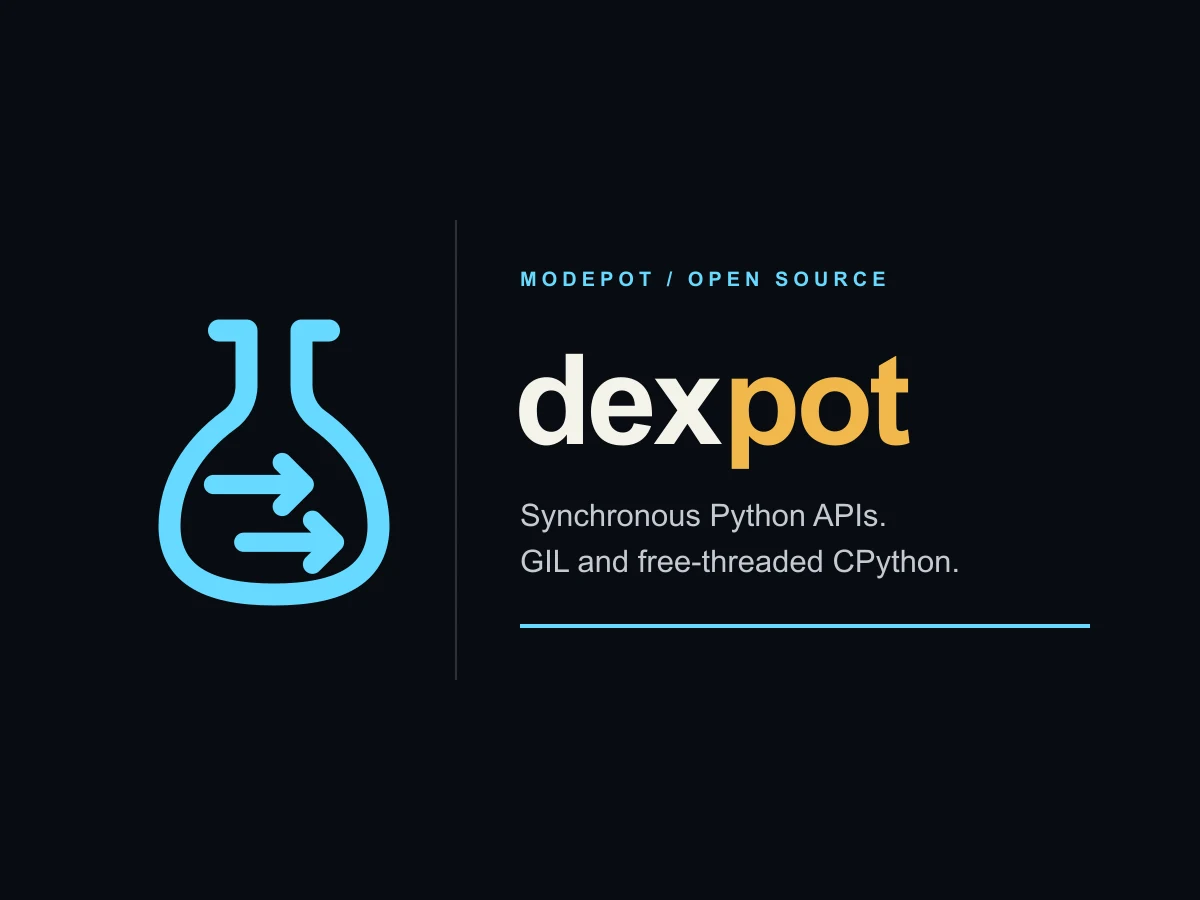
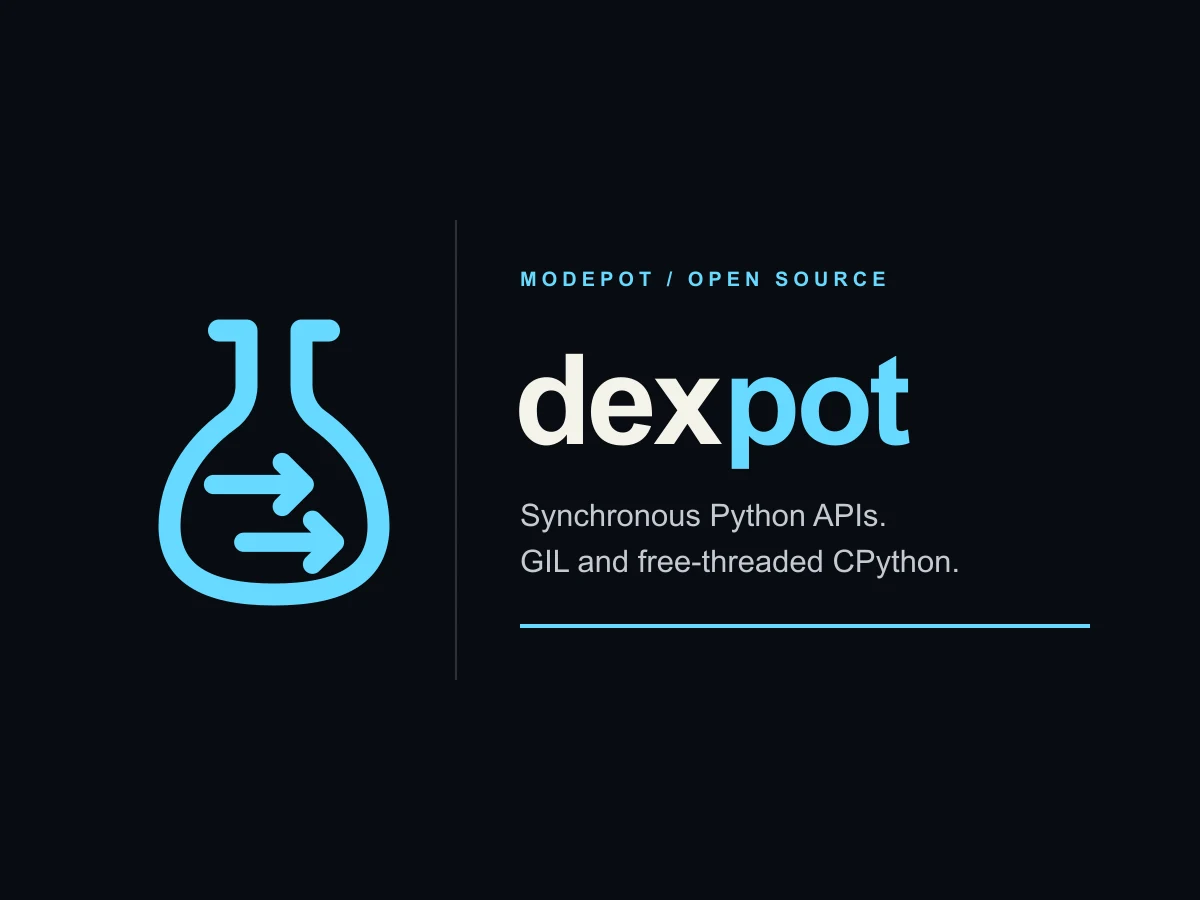
fix: match Dexpot wordmark suffix to flask cyan

Changed region(s): [[0.5858, 0.4044, 0.7708, 0.5289]]

diff --git a/website/src/styles/custom.css b/website/src/styles/custom.css
@@ -10,6 +10,7 @@
   --mp-border-light: #c6cbd2; --mp-border-dark: #555d68;
   --mp-control-light: #616b78; --mp-control-dark: #aeb4bc;
   --mp-accent-light: #14665f; --mp-accent-dark: #73cfc0;
+  --dexpot-wordmark-light: #006b8f; --dexpot-wordmark-dark: #66d9ff;
   --mp-error-light: #a4262b; --mp-error-dark: #ff9b9b;
   --sl-font: var(--mp-font); --sl-font-mono: var(--mp-font-mono);
   --sl-color-bg: var(--mp-canvas-light); --sl-color-bg-nav: var(--mp-raised-light); --sl-color-bg-sidebar: var(--mp-surface-light);
@@ -37,7 +38,10 @@ header.header .header-tools site-search button { width: max-content; max-width: 
 .family-home-mobile { color: var(--sl-color-white); font: 600 13px/1.4 var(--mp-font); text-decoration: none; }
 starlight-theme-select select { min-height: 44px; border: 1px solid var(--mp-control-light); border-radius: 6px; background: var(--mp-raised-light); color: var(--mp-ink-light); }
 :root[data-theme='dark'] starlight-theme-select select { border-color: var(--mp-control-dark); background: var(--mp-raised-dark); color: var(--mp-ink-dark); }
-.site-title { min-height:44px; font-size: 1rem; font-weight: 650; letter-spacing: -.02em; }
+.site-title { min-height:44px; display:inline-flex; align-items:center; gap:0; font-size:1rem; font-weight:650; letter-spacing:-.02em; text-decoration:none; }
+.site-title img { margin-right:.45rem; }
+.site-title .wordmark-suffix { color:var(--dexpot-wordmark-light); }
+:root[data-theme='dark'] .site-title .wordmark-suffix { color:var(--dexpot-wordmark-dark); }
 .hero { padding-block: clamp(2rem, 5vw, 4rem); }
 .hero h1 { max-width: 22ch; font-size: clamp(2rem, 5vw, 3.5rem); line-height: 1.1; font-weight: 700; letter-spacing: -.03em; text-transform: none; }
 main h1 { font-size: clamp(2rem, 3vw, 2.5rem); line-height: 1.15; font-weight: 700; letter-spacing: -.03em; text-transform: none; }
@@ -86,6 +90,10 @@ main:has(.framework-hero) .deeper-content pre:focus-visible { outline: 2px solid
 /* Reference-matched framework landing composition; preserve product artwork and claims. */
 .framework-hero { display:grid; grid-template-columns:minmax(0,1fr) minmax(18rem,.88fr); align-items:center; gap:clamp(2rem,6vw,5rem); max-width:70rem; margin:64px auto 0; padding:clamp(2.5rem,6vw,4.75rem) 0 clamp(2rem,4vw,3.5rem); }
 .framework-copy { min-width:0; }
+.framework-wordmark { margin:0 0 .6rem; color:var(--mp-ink-light); font-size:1.2rem; font-weight:750; letter-spacing:-.04em; line-height:1; }
+.framework-wordmark span { color:var(--dexpot-wordmark-light); }
+:root[data-theme='dark'] .framework-wordmark { color:var(--mp-ink-dark); }
+:root[data-theme='dark'] .framework-wordmark span { color:var(--dexpot-wordmark-dark); }
 .framework-eyebrow,.section-eyebrow { margin:0 0 .7rem; color:var(--mp-accent-light); font:650 .75rem/1.3 var(--mp-font-code); letter-spacing:.08em; }
 :root[data-theme='dark'] .framework-eyebrow,:root[data-theme='dark'] .section-eyebrow { color:var(--mp-accent-dark); }
 .framework-hero h1 { max-width:14ch; margin:0; color:var(--mp-ink-light); font-size:clamp(2.5rem,5vw,3.5rem); line-height:1.04; font-weight:700; letter-spacing:-.045em; }

diff --git a/tests/test_docs.py b/tests/test_docs.py
@@ -59,7 +59,8 @@ def test_readme_hero_is_an_optimized_png() -> None:
     assert (width, height) == (1200, 900)
     assert len(data) < 700_000
     assert (
-        'src="https://raw.githubusercontent.com/tugrulguner/dexpot/main/assets/dexpot.png"' in text
+        'src="https://raw.githubusercontent.com/tugrulguner/dexpot/main/assets/dexpot.png?wordmark-accent-1"'
+        in text
     )
     assert 'alt="dexpot synchronous Python API framework"' in text
     assert 'width="600"' in text

diff --git a/README.md b/README.md
@@ -1,7 +1,7 @@
 # dexpot
 
 <p align="center">
-  <img src="https://raw.githubusercontent.com/tugrulguner/dexpot/main/assets/dexpot.png" alt="dexpot synchronous Python API framework" width="600">
+  <img src="https://raw.githubusercontent.com/tugrulguner/dexpot/main/assets/dexpot.png?wordmark-accent-1" alt="dexpot synchronous Python API framework" width="600">
 </p>
 
 <p align="center">Part of <a href="https://modepot.io/">ModePot</a>. &nbsp; <a href="https://dexpot.modepot.io/">Project website</a> &nbsp; <a href="https://tugrul.modepot.io/">Created by Tugrul Guner</a></p>

diff --git a/changelog.d/+flask-matched-wordmark.changed.md b/changelog.d/+flask-matched-wordmark.changed.md
@@ -1,0 +1,1 @@
+Use the existing flask cyan for the Dexpot wordmark suffix across canonical artwork, site branding, and image derivatives.
